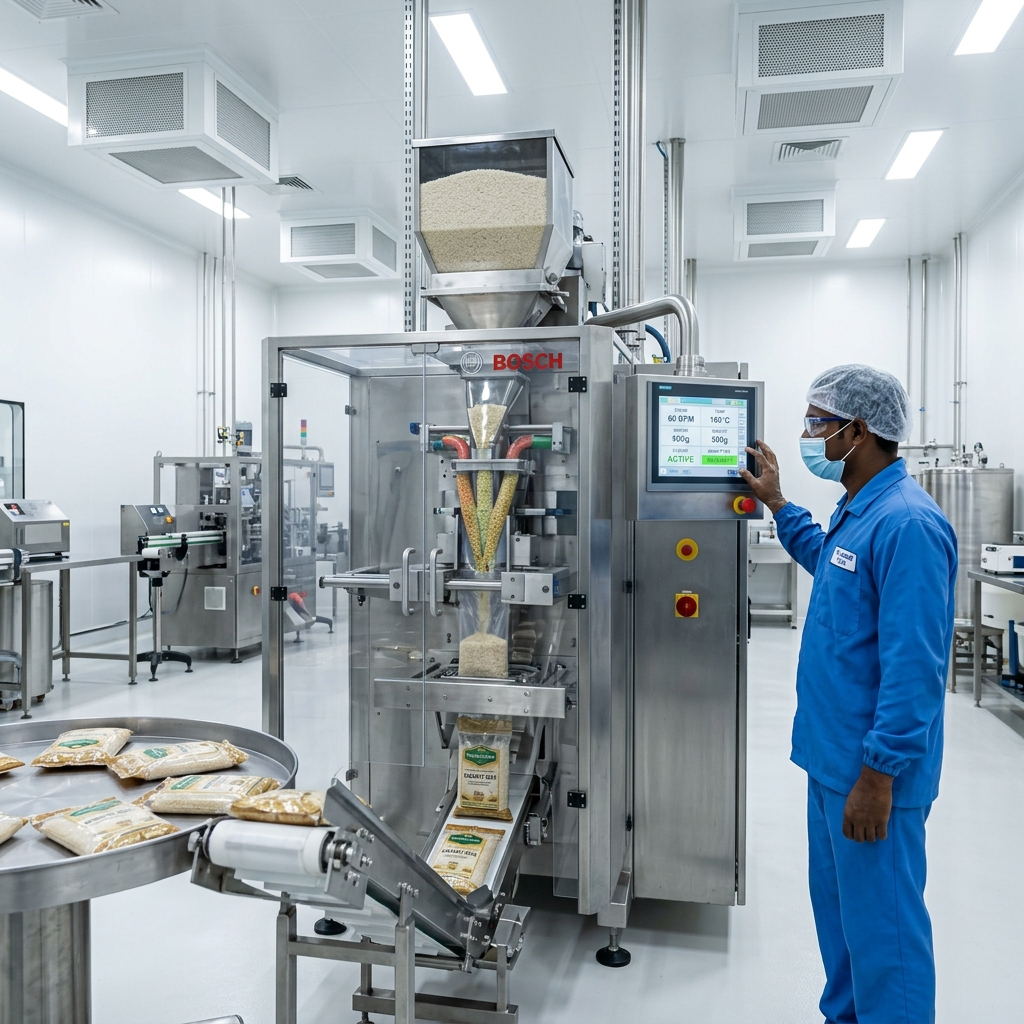
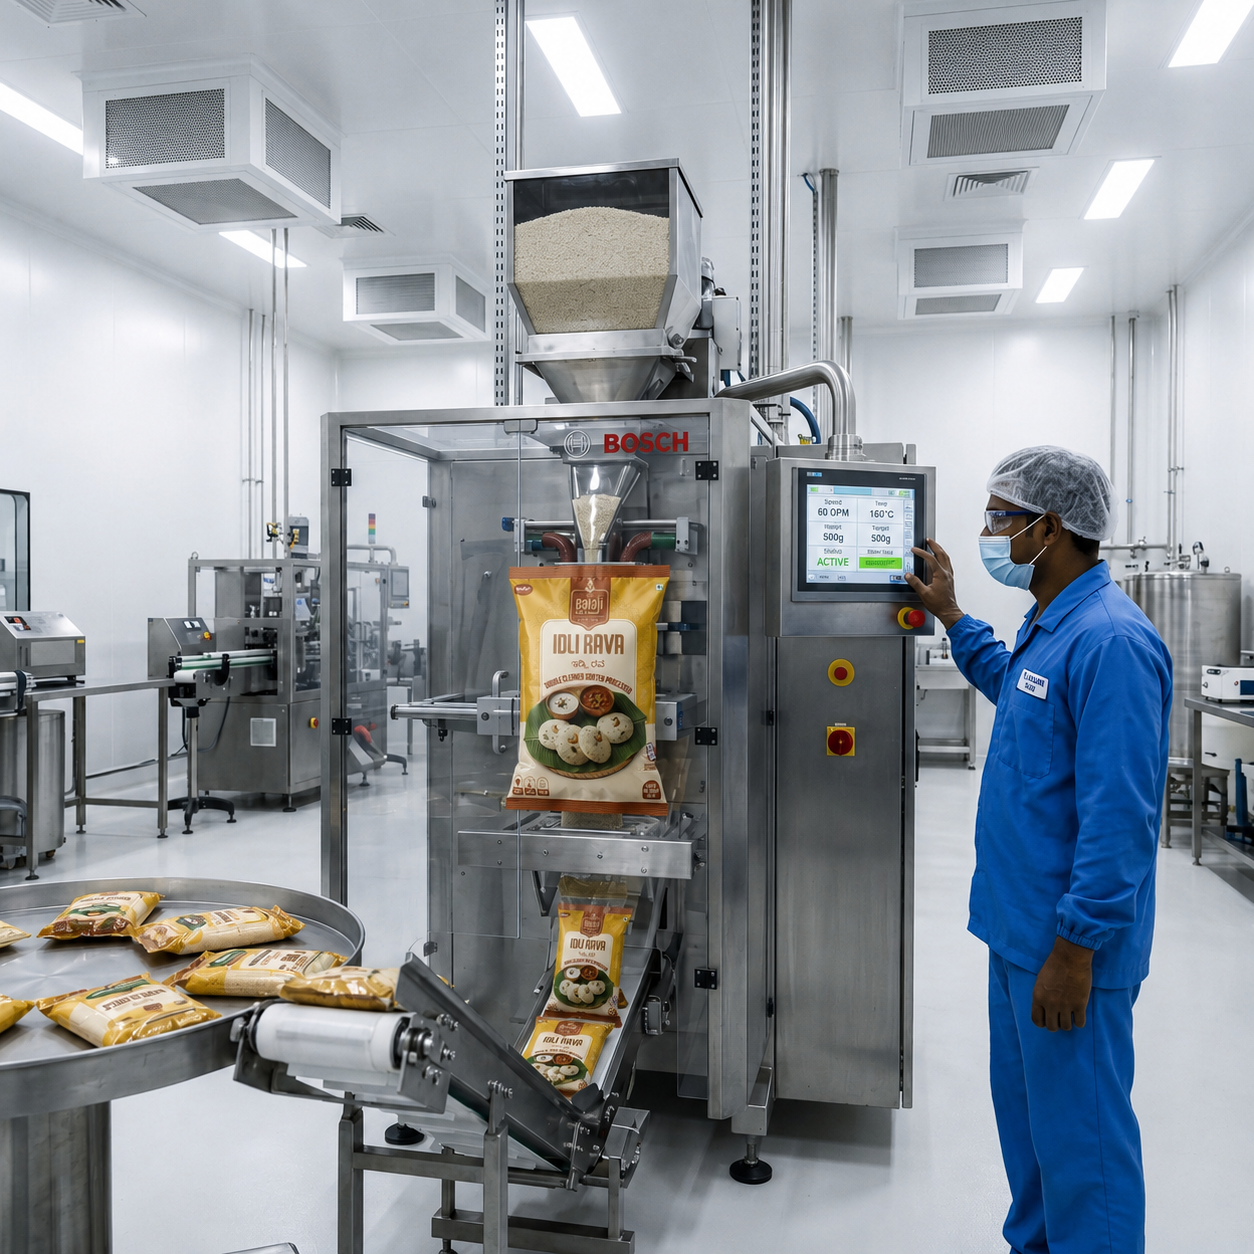
Update contact details: support email and helpline numbers

diff --git a/src/app/page.tsx b/src/app/page.tsx
@@ -1379,7 +1379,10 @@ export default function Home() {
                 </div>
                 <div>
                   <h4 className="font-bold text-brand-brown-dark text-sm">Customer Helpline</h4>
-                  <p className="text-brand-brown-dark text-xs mt-1">[phone redacted]</p>
+                  <p className="text-brand-brown-dark text-xs mt-1">
+                    <a href="tel:[phone redacted]" className="hover:underline">[phone redacted]</a> /{" "}
+                    <a href="tel:[phone redacted]" className="hover:underline">[phone redacted]</a>
+                  </p>
                 </div>
               </div>
 
@@ -1389,7 +1392,9 @@ export default function Home() {
                 </div>
                 <div>
                   <h4 className="font-bold text-brand-brown-dark text-sm">Email Support</h4>
-                  <p className="text-brand-brown text-xs mt-1">[email redacted]</p>
+                  <p className="text-brand-brown text-xs mt-1">
+                    <a href="mailto:[email redacted]" className="hover:underline">[email redacted]</a>
+                  </p>
                 </div>
               </div>
             </div>